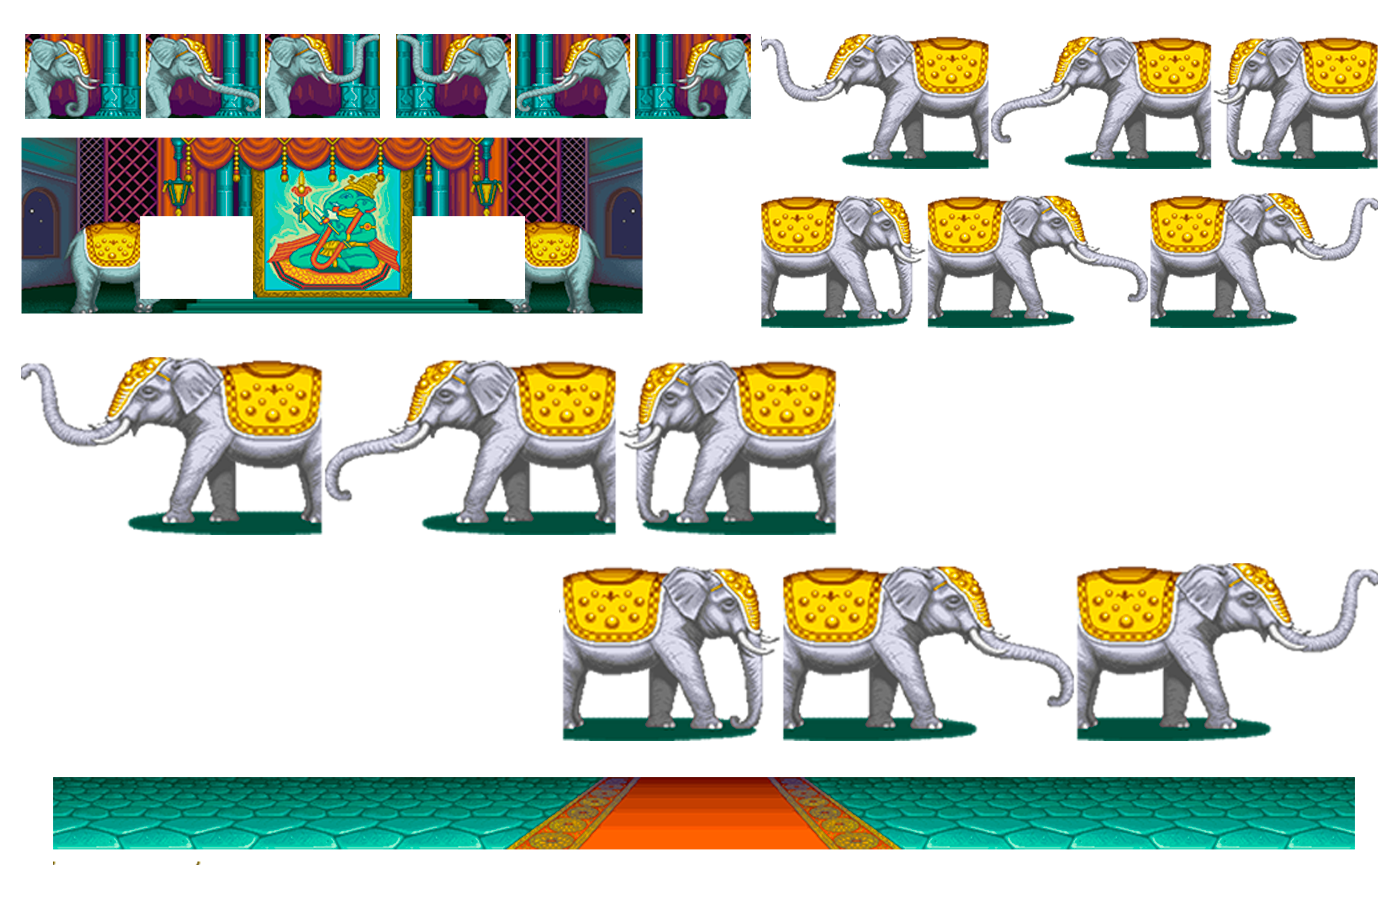
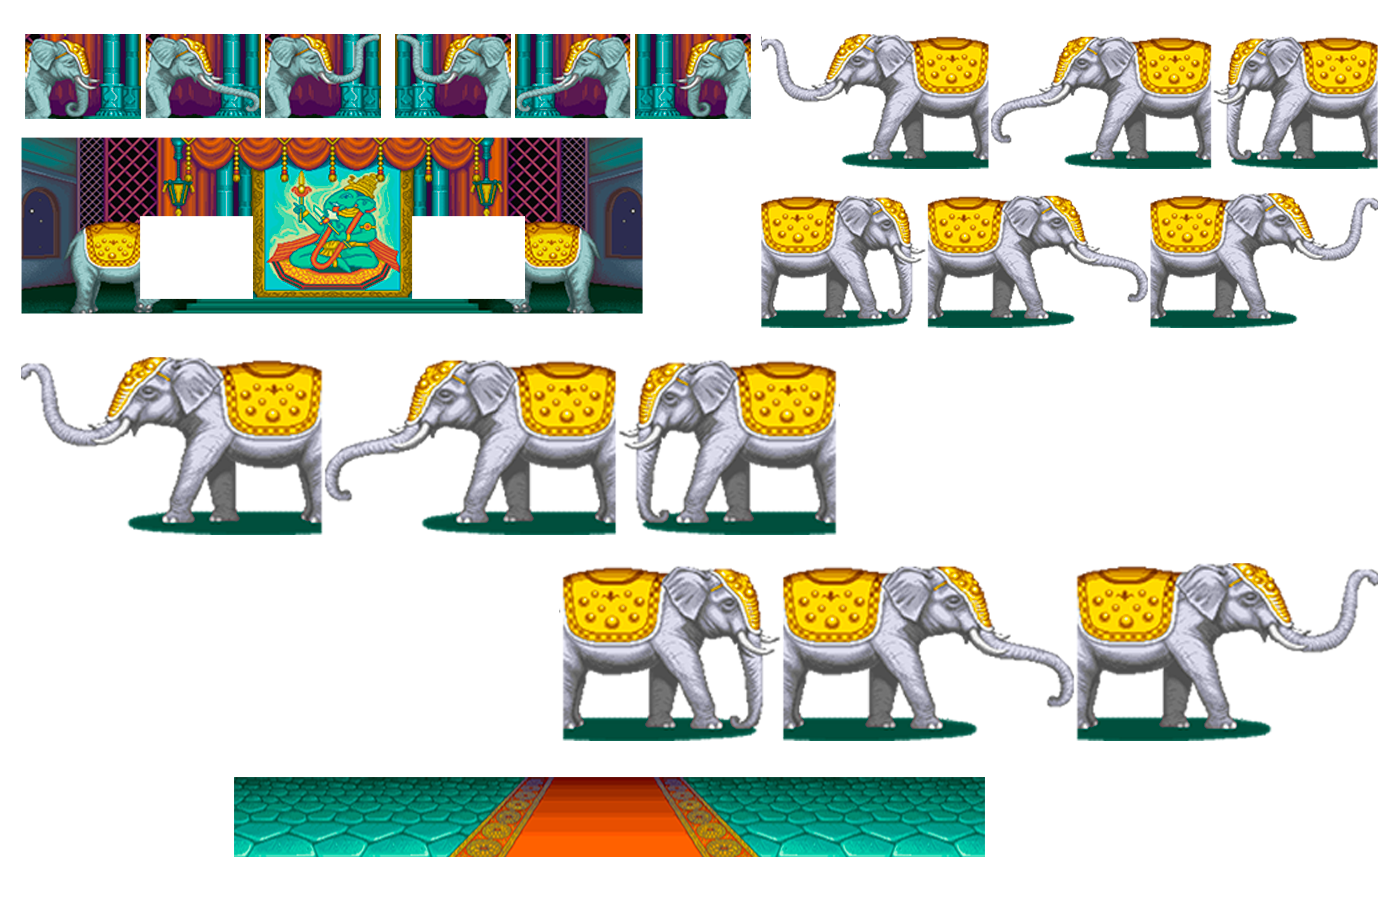
Minor stage changes

Changed region(s): [[0.0307, 0.84, 0.9829, 0.9644]]

diff --git a/Street Fighter II/ModuleSceneDhalsim.cpp b/Street Fighter II/ModuleSceneDhalsim.cpp
@@ -20,10 +20,10 @@
 ModuleSceneDhalsim::ModuleSceneDhalsim()
 {
 	// Ground
-	ground.x = 53;
-	ground.y = 777;
-	ground.w = 1302;
-	ground.h = 73;
+	ground.x = 234;
+	ground.y = 750;
+	ground.w = 821;
+	ground.h = 91;
 
 	// Background 
 	background.x = 21;
@@ -33,17 +33,22 @@ ModuleSceneDhalsim::ModuleSceneDhalsim()
 
 	// Left elephant in the background
 	
-	leftelephant.x = 26;
-	leftelephant.y = 34;
-	leftelephant.w = 115;
-	leftelephant.h = 84;
+	
 
+	leftelephant1.PushBack1({ 27,34,115,84 }, {}, {}, {}, {});
+	leftelephant1.PushBack1({ 147,34,115,84 }, {}, {}, {}, {});
+	leftelephant1.PushBack1({ 267,34,115,84 }, {}, {}, {}, {});
+	leftelephant1.PushBack1({ 147,34,115,84 }, {}, {}, {}, {});
+	leftelephant1.speed = 0.05f;
 	// Right elephant in the background
 
-	rightelephant.x = 635;
-	rightelephant.y = 34;
-	rightelephant.w = 115;
-	rightelephant.h = 84;
+
+	rightelephant1.PushBack1({ 635,34,115,84 }, {}, {}, {}, {});
+	rightelephant1.PushBack1({ 515,34,115,84 }, {}, {}, {}, {});
+	rightelephant1.PushBack1({ 395,34,115,84 }, {}, {}, {}, {});
+	rightelephant1.PushBack1({ 515,34,115,84 }, {}, {}, {}, {});
+	rightelephant1.speed = 0.05f;
+
 
 	// for moving the foreground
 	foreground_pos = 0;
@@ -91,20 +96,19 @@ update_status ModuleSceneDhalsim::Update()
 {
 
 	// Draw everything --------------------------------------
-	App->render->Blit(graphics, 0, 0, &background); // background
-	App->render->Blit(graphics, 119, 79, &leftelephant);  //Left elephant in the background 
-	App->render->Blit(graphics, 390, 79, &rightelephant); // Right elephant in the background 
-	App->render->Blit(graphics, -338, 176, &ground);
+	App->render->Blit(graphics, 0, -16, &background, 0.92f); // background
+	App->render->Blit(graphics, 119, 63, &(leftelephant1.GetCurrentFrame()), 0.92f);  //Left elephant in the background 
+	App->render->Blit(graphics, 390, 63, &(rightelephant1.GetCurrentFrame()), 0.92f); // Right elephant in the background 
+	App->render->Blit(graphics, 0, 133, &ground);
 
-	if (App->chunli->victorycount == 2) {
-		App->fade->FadeToBlack(App->scene_dhalsim, App->lose_scene, 2.0f);
-		App->audio->StopMusic(250);
-	}
+	
+	roundpoints();
+	fadeto();
 
-	if (App->chunli2->victorycount == 2) {
-		App->fade->FadeToBlack(App->scene_dhalsim, App->congrats_screen, 2.0f);
-		App->audio->StopMusic(250);
-	}
+	return UPDATE_CONTINUE;
+}
+
+void ModuleSceneDhalsim::roundpoints() {
 
 	if (App->UI->time <= 0) {
 		if (App->chunli->life > App->chunli2->life) {
@@ -119,6 +123,19 @@ update_status ModuleSceneDhalsim::Update()
 			App->chunli2->victorycount++;
 		}
 	}
+}
+
+void ModuleSceneDhalsim::fadeto() {
+
+	if (App->chunli->victorycount == 2) {
+		App->fade->FadeToBlack(App->scene_dhalsim, App->lose_scene, 2.0f);
+		App->audio->StopMusic(250);
+	}
+
+	if (App->chunli2->victorycount == 2) {
+		App->fade->FadeToBlack(App->scene_dhalsim, App->congrats_screen, 2.0f);
+		App->audio->StopMusic(250);
+	}
 
 	if (App->input->keyboard[SDL_SCANCODE_SPACE] == 1) {
 
@@ -126,5 +143,4 @@ update_status ModuleSceneDhalsim::Update()
 		App->audio->StopMusic(2000);
 
 	}
-	return UPDATE_CONTINUE;
 }

diff --git a/Street Fighter II/ModuleSceneDhalsim.h b/Street Fighter II/ModuleSceneDhalsim.h
@@ -19,6 +19,8 @@ public:
 	bool Start();
 	update_status Update();
 	bool CleanUp();
+	void roundpoints();
+	void fadeto();
 
 public:
 
@@ -26,16 +28,17 @@ public:
 
 	SDL_Rect ground;
 	SDL_Rect background;
-	SDL_Rect rightelephant;
-	SDL_Rect leftelephant;
-	/*
+
+
+	
+	
 	Animation rightelephant1;
-	Animation rightelephant2;
-	Animation rightelephant3;
+	//Animation rightelephant2;
+	//Animation rightelephant3;
 	Animation leftelephant1;
-	Animation leftelephant2;
-	Animation leftelephant3;
-	*/
+	//Animation leftelephant2;
+	//Animation leftelephant3;
+	
 	Mix_Music* music;
 
 	float foreground_pos;

diff --git a/Street Fighter II/ModuleInput.cpp b/Street Fighter II/ModuleInput.cpp
@@ -2,6 +2,7 @@
 #include "Application.h"
 #include "ModuleInput.h"
 #include "SDL/include/SDL.h"
+#include "ModuleRender.h"
 
 ModuleInput::ModuleInput() : Module()
 {
@@ -66,6 +67,16 @@ update_status ModuleInput::PreUpdate()
 
 	if (keyboard[SDL_SCANCODE_ESCAPE])
 		return update_status::UPDATE_STOP;
+
+	if (keyboard[SDL_SCANCODE_O]) {
+		App->render->camera.x += 1;
+	}
+
+	if (keyboard[SDL_SCANCODE_P]) {
+		App->render->camera.x -= 1;
+	}
+
+		
 
 	while (SDL_PollEvent(&event) != 0)
 	{

diff --git a/Street Fighter II/ModuleChunLi.cpp b/Street Fighter II/ModuleChunLi.cpp
@@ -278,8 +278,8 @@ update_status ModuleChunLi::Update()
 						jump_neutral_punch.Reset();
 						jump_backward_punch.Reset();
 						jump_forward_punch.Reset();
-						Crouch_punch.Reset();				
-						
+						Crouch_punch.Reset();	
+						kick.Reset();
 						
 
 						break;
